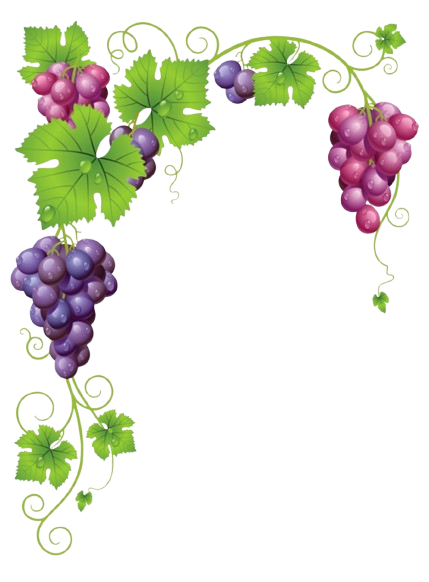
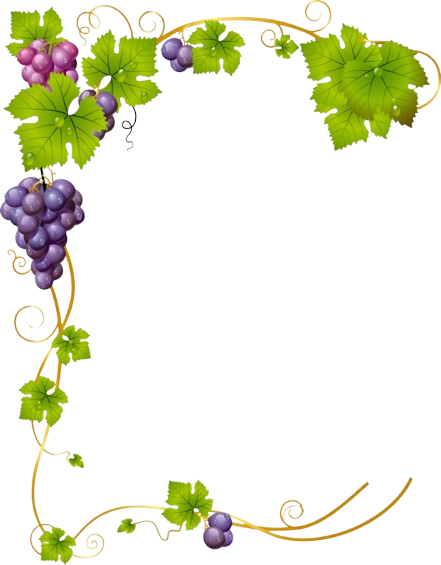
changed vine and removed from mobile

diff --git a/src/styles/Home.module.css b/src/styles/Home.module.css
@@ -293,10 +293,10 @@
 
 .week_calendar_vineyard {
   position: absolute;
-  top: -40px;
-  left: -30px;
-  width: 300px;
-  height: 300px;
+  top: -55px;
+  left: -40px;
+  width: 400px;
+  height: 540px;
   background-image: url(../images/vineyard.png);
   background-repeat: no-repeat;
   background-size: contain;
@@ -891,6 +891,10 @@
     gap: 10px;
   }
 
+  .week_calendar {
+    margin-bottom: 40px; /* Adds spacing below week_calendar on mobile */
+  }
+
   .maturityOrnament {
     width: 250px !important; /* Adjust this value as needed for small screens; use !important to override if necessary */
   }
@@ -988,10 +992,7 @@
   }
 
   .week_calendar_vineyard {
-    width: 240px;
-    height: 240px;
-    top: -45px;
-    left: -35px;
+    opacity: 0;
   }
 
   .auditorium_vineyard {
@@ -1228,7 +1229,6 @@
 @media (min-width: 701px) and (max-width: 1120px) {
   .headerTitle {
     font-size: 24px;
-    margin-bottom: 40px;
   }
 
   .maturityOrnament {
